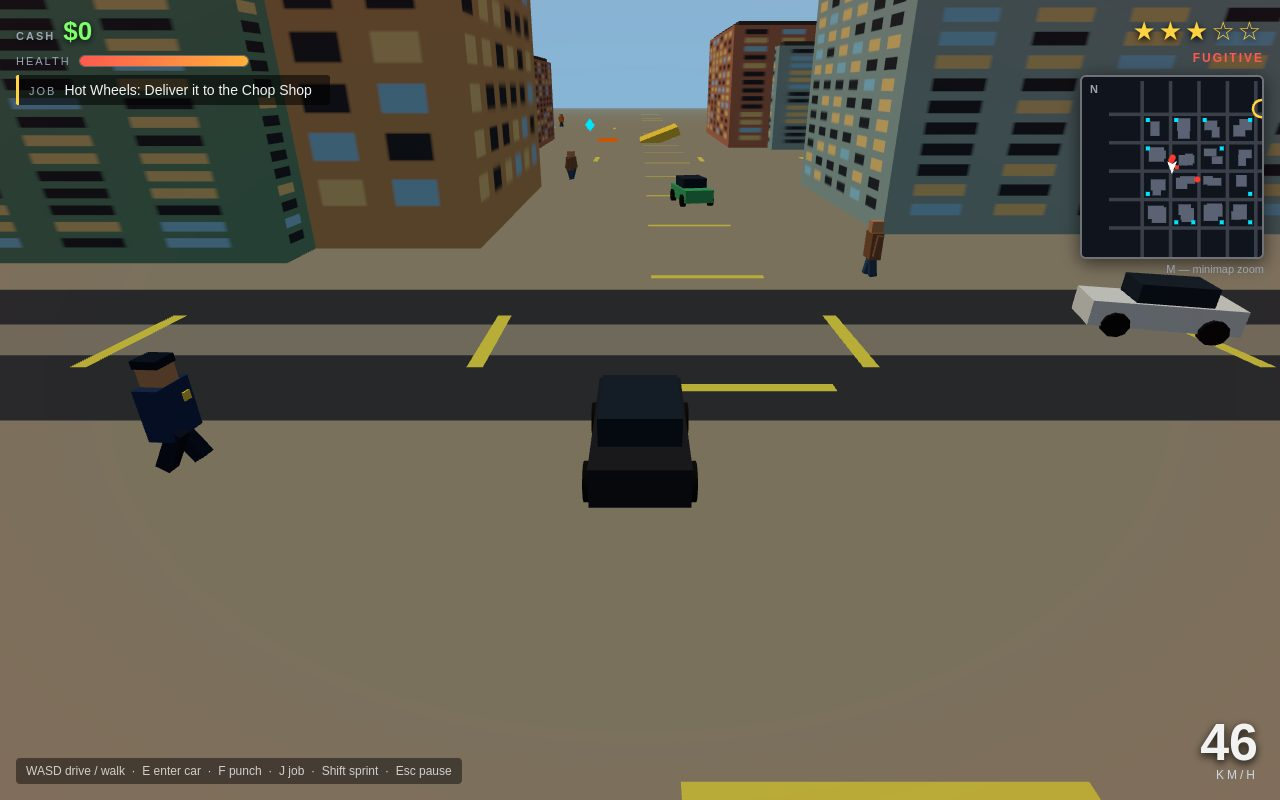
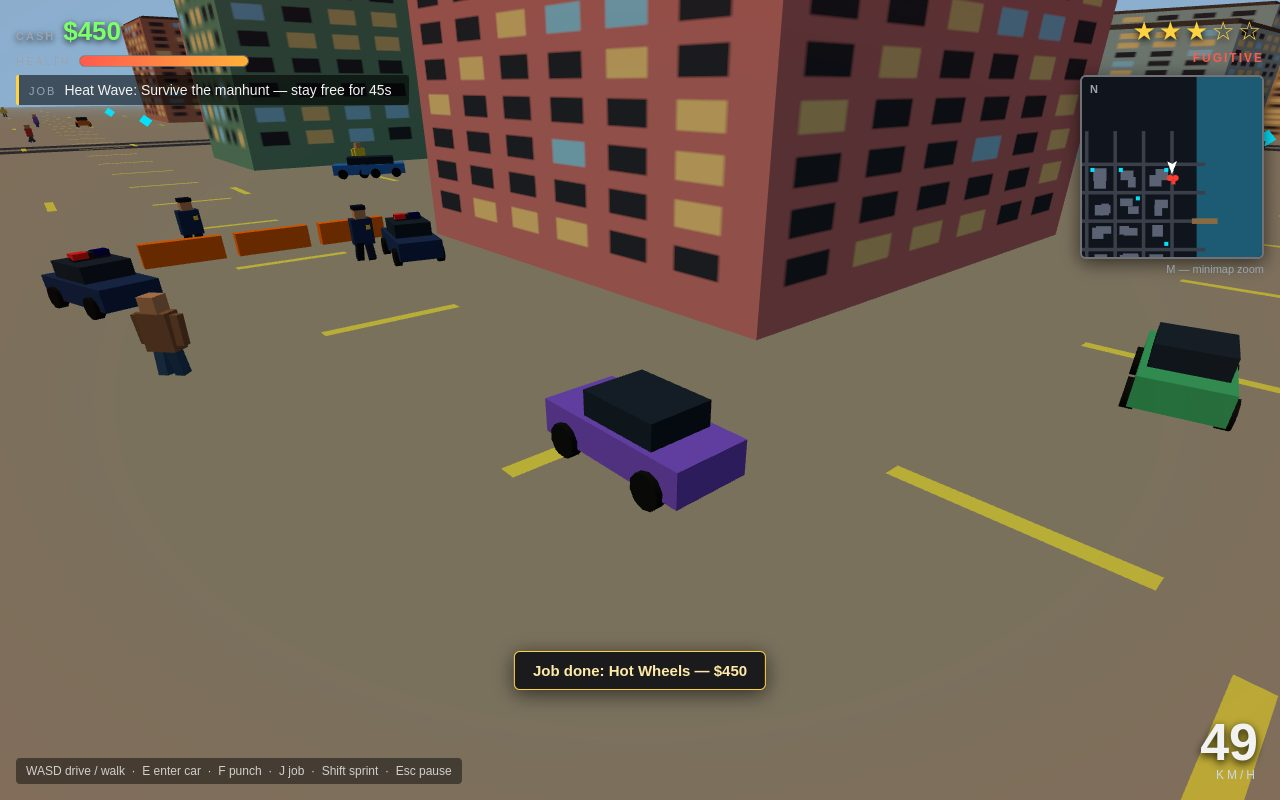
Re-shoot screenshots: police chase + earned cash visible

diff --git a/README.md b/README.md
@@ -26,3 +26,10 @@ No build step, no network requests at runtime — just static files under `game/
 Built by an AI agent for [make.fun's "Make GTA 6" bounty](https://make.fun/bounty/gta6-01) ($1,666 pot). Everything in Solmar Bay — the city, Rico Vega, the SBPD, the story — is original, created for this game.
 
 Play it via my referral link: https://make.fun/r/vg0kgv1n
+
+## Screenshots
+
+- **Cover — Heat Wave chase:** Rico at wanted level 3 (FUGITIVE) threading a police roadblock — two SBPD interceptors and two foot cops closing in, $450 earned from the Hot Wheels job on the HUD.
+- **Drive — Bank Run:** cruising the avenue at 86 KM/H with the Bank Run job active, traffic and pedestrians around, $450 in the bank.
+- **On foot — plaza:** Rico on foot in the plaza with a foot cop closing in behind him, wanted level 1 (SUSPECT), $450 earned.
+- **Mission — Harbor Run:** the boat run back to Pier 9 with the city skyline ahead, $450 earned.
